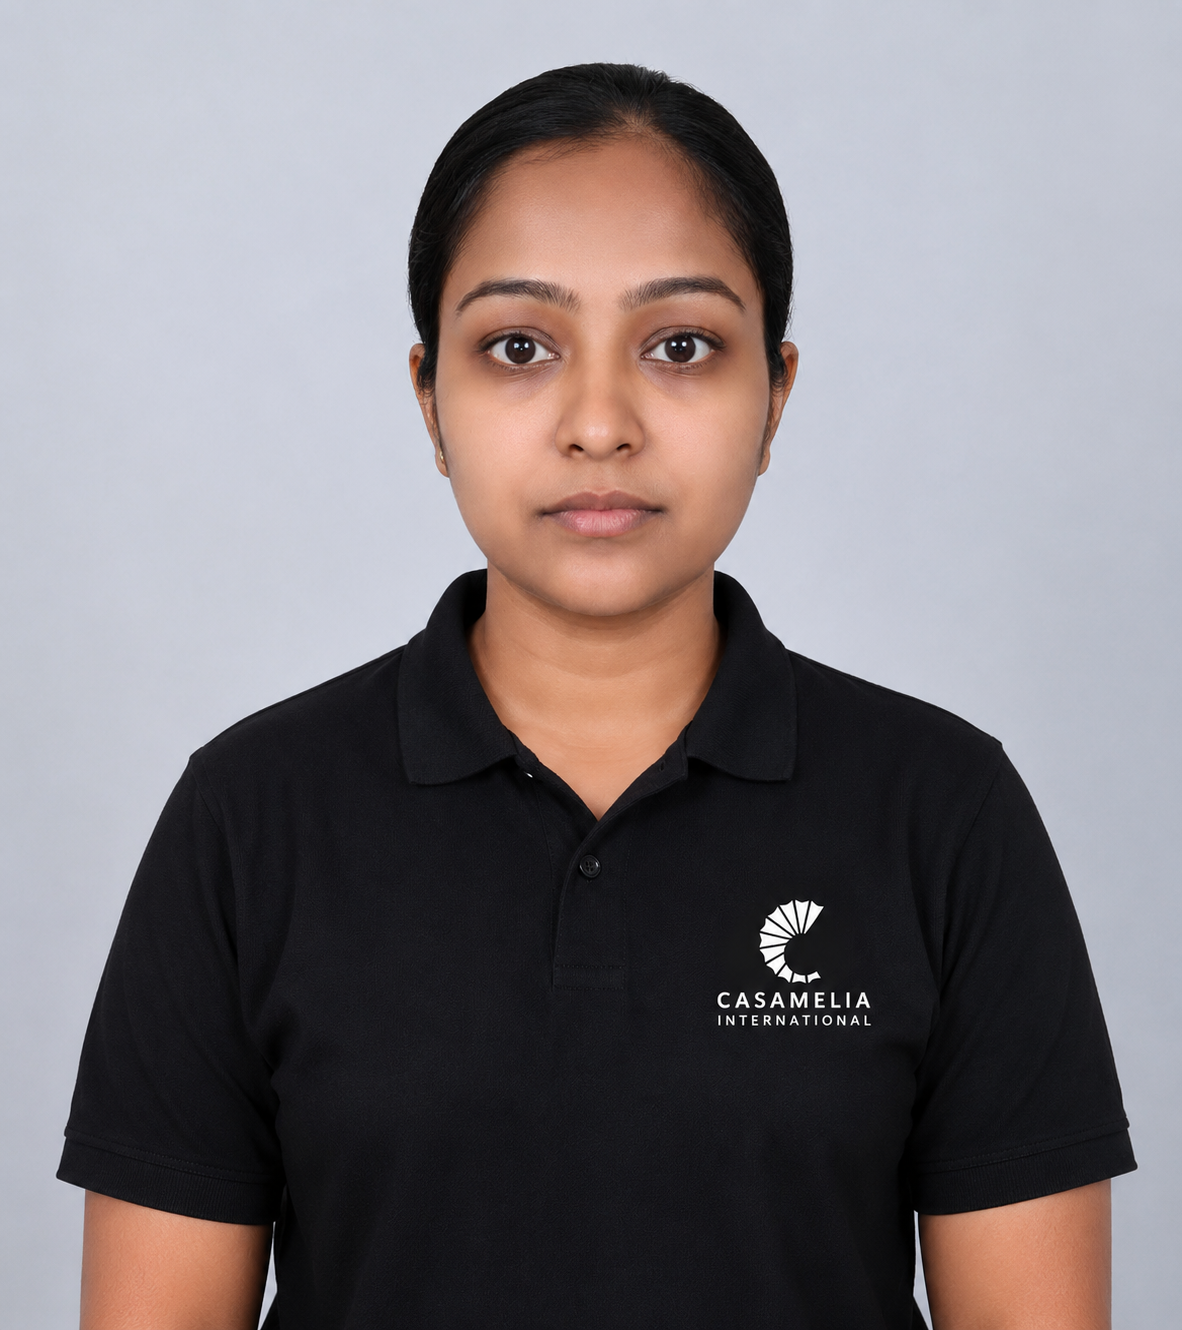
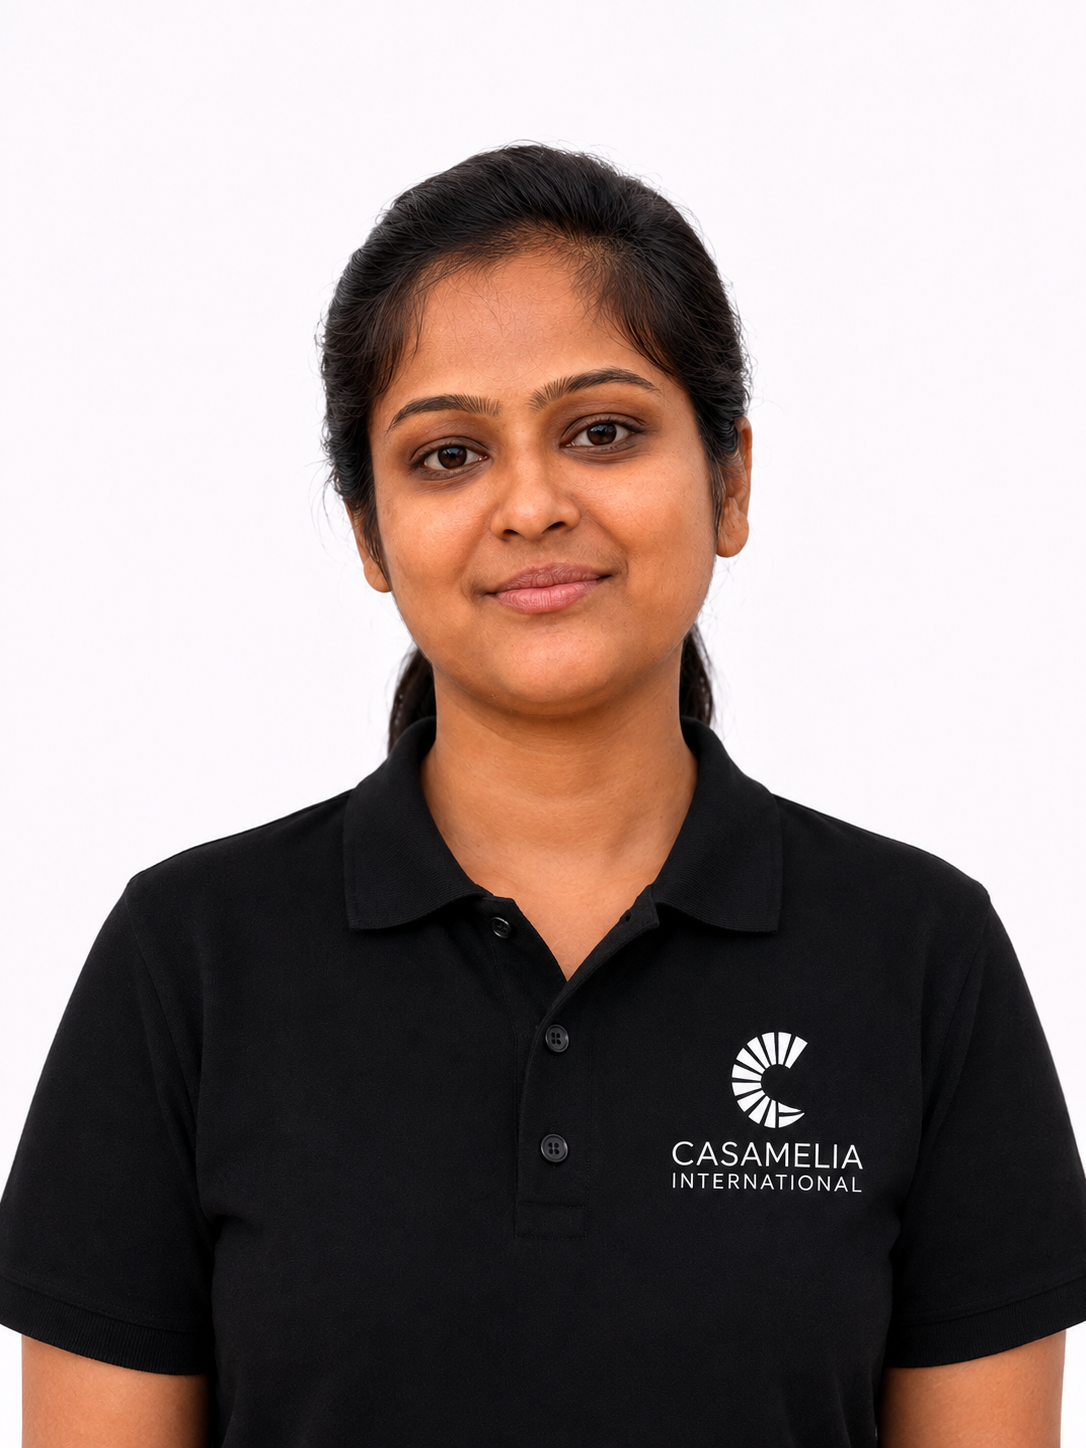
Refresh Mohammed Saif/Vidya R/Shuaib photos and correct Oswald + Shuaib names

diff --git a/infensol-vercel/src/data/team.ts b/infensol-vercel/src/data/team.ts
@@ -53,7 +53,7 @@ const employees: Omit<Employee, "linkedin">[] = [
       "Creates elegant and functional interior concepts that balance aesthetics, innovation, and practical living solutions tailored to each client's vision.",
   },
   {
-    name: "Oswald Jonathan For",
+    name: "Oswald Jonathan",
     designation: "Business Development Executive",
     intro:
       "Identifies new business opportunities, develops strategic partnerships, and builds lasting client relationships that contribute to the company's continued growth.",
@@ -83,7 +83,7 @@ const employees: Omit<Employee, "linkedin">[] = [
       "Works closely with prospective clients to understand project requirements, provide tailored solutions, and build strong long-term business relationships.",
   },
   {
-    name: "Shuyalb Ahmed",
+    name: "Shuaib Ahmed",
     designation: "Assistant Sales Manager",
     intro:
       "Supports the sales team by assisting clients, coordinating project requirements, and delivering a smooth and professional customer journey.",
@@ -118,11 +118,11 @@ export const remainingTeam = [
   "Vidya R",
   "Pallavi Kumar Sadalagi",
   "Chethana R",
-  "Oswald Jonathan For",
+  "Oswald Jonathan",
   "Mahmed Jakeer",
   "Mahanthesh Naik H",
   "Manoj S. Jogi",
-  "Shuyalb Ahmed",
+  "Shuaib Ahmed",
   "Mahendra B G",
   "Shilpa Patil",
   "Varun Sai M",
